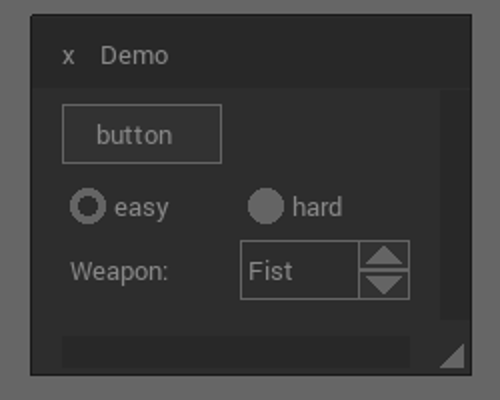
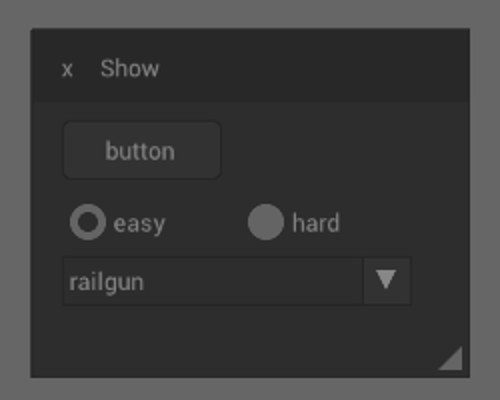
updated screenshots + readme

diff --git a/gui.c b/gui.c
@@ -70,7 +70,6 @@ static const gui_byte gui_utfbyte[GUI_UTF_SIZE+1] = {0x80, 0, 0xC0, 0xE0, 0xF0};
 static const gui_byte gui_utfmask[GUI_UTF_SIZE+1] = {0xC0, 0x80, 0xE0, 0xF0, 0xF8};
 static const long gui_utfmin[GUI_UTF_SIZE+1] = {0, 0, 0x80, 0x800, 0x100000};
 static const long gui_utfmax[GUI_UTF_SIZE+1] = {0x10FFFF, 0x7F, 0x7FF, 0xFFFF, 0x10FFFF};
-static const double GUI_DOUBLE_PRECISION = 0.0000001;
 
 /*
  * ==============================================================
@@ -79,25 +78,6 @@ static const double GUI_DOUBLE_PRECISION = 0.0000001;
  *
  * ===============================================================
  */
-static gui_float
-gui_inv_sqrt(gui_float number)
-{
-    gui_float x2;
-    const gui_float threehalfs = 1.5f;
-    union {gui_uint i; gui_float f;} conv;
-    conv.f = number;
-    x2 = number * 0.5f;
-    conv.i = 0x5f375A84 - (conv.i >> 1);
-    conv.f = conv.f * (threehalfs - (x2 * conv.f * conv.f));
-    return conv.f;
-}
-
-static gui_float
-gui_sqrt(gui_float number)
-{
-    return (1.0f / gui_inv_sqrt(number));
-}
-
 struct gui_rect
 gui_get_null_rect(void)
 {
@@ -1194,7 +1174,6 @@ gui_command_queue_start_child(struct gui_command_queue *queue,
 {
     static const gui_size buf_size = sizeof(struct gui_command_sub_buffer);
     static const gui_size buf_align = GUI_ALIGNOF(struct gui_command_sub_buffer);
-    static const gui_size cmd_align = GUI_ALIGNOF(struct gui_command);
     struct gui_command_sub_buffer_stack *stack;
     struct gui_command_sub_buffer *buf;
     struct gui_command_sub_buffer *end;
@@ -1976,7 +1955,6 @@ gui_widget_button_text_symbol(struct gui_command_buffer *out, struct gui_rect r,
     struct gui_rect tri;
     struct gui_color background;
     struct gui_color color;
-    struct gui_vec2 points[3];
 
     GUI_ASSERT(button);
     GUI_ASSERT(out);
@@ -2177,7 +2155,6 @@ gui_widget_slider(struct gui_command_buffer *out, struct gui_rect slider,
     {
         /* NOTE: this is a shitty hack since I am to stupid for math */
         struct gui_rect fill;
-        gui_float cursor_rounding;
         cursor.w = cursor.h;
         cursor.x = (slider_value <= slider_min) ? cursor.x:
             (slider_value >= slider_max) ? ((bar.x + bar.w) - cursor.h) :
@@ -2187,7 +2164,6 @@ gui_widget_slider(struct gui_command_buffer *out, struct gui_rect slider,
         fill.y = bar.y + 2;
         fill.w = (cursor.x + (cursor.w/2.0f)) - bar.x;
         fill.h = bar.h - 4;
-        cursor_rounding = (s->rounding > 2.0f) ? s->rounding-2 : 0;
 
         /* draw slider with background and circle cursor*/
         gui_command_buffer_push_rect(out, bar, s->rounding, s->border);
@@ -2208,7 +2184,6 @@ gui_widget_progress(struct gui_command_buffer *out, struct gui_rect r,
     struct gui_rect cursor;
     gui_float prog_scale;
     gui_size prog_value;
-    struct gui_vec2 pad;
     struct gui_color col;
 
     GUI_ASSERT(prog);
@@ -4507,15 +4482,12 @@ gui_button_image(struct gui_context *layout, struct gui_image image,
 {
     struct gui_rect bounds;
     struct gui_button_icon button;
-    const struct gui_style *config;
 
     const struct gui_input *i;
     enum gui_widget_state state;
     state = gui_button(&button.base, &bounds, layout);
     if (!state) return gui_false;
     i = (state == GUI_WIDGET_ROM || layout->flags & GUI_WINDOW_ROM) ? 0 : layout->input;
-
-    config = layout->style;
     button.padding = gui_vec2(0,0);
     return gui_widget_button_image(layout->buffer, bounds, image, behavior, &button, i);
 }
@@ -5563,8 +5535,8 @@ gui_menu_begin(struct gui_context *parent, struct gui_context *menu,
         gui_button(&button.base, &header, parent);
         button.base.rounding = 0;
         button.base.border = config->colors[GUI_COLOR_WINDOW];
-        button.base.normal = config->colors[GUI_COLOR_WINDOW];
-        button.base.hover = config->colors[GUI_COLOR_WINDOW];
+        button.base.normal = (is_active) ? config->colors[GUI_COLOR_BUTTON_HOVER]:
+            config->colors[GUI_COLOR_WINDOW];
         button.base.active = config->colors[GUI_COLOR_WINDOW];
         button.normal = config->colors[GUI_COLOR_TEXT];
         button.active = config->colors[GUI_COLOR_TEXT];

diff --git a/Readme.md b/Readme.md
@@ -54,6 +54,7 @@ gui_window_init(&panel, 50, 50, 220, 180,
 enum {EASY, HARD};
 gui_size option = EASY;
 gui_size item = 0;
+gui_state active = 0;
 
 struct gui_input input = {0};
 while (1) {
@@ -66,7 +67,7 @@ while (1) {
     gui_begin(&context, &panel);
     {
         const char *items[] = {"Fist", "Pistol", "Railgun", "BFG"};
-        gui_header(&context, "Demo", GUI_CLOSEABLE, 0, GUI_HEADER_LEFT);
+        gui_header(&context, "Show", GUI_CLOSEABLE, 0, GUI_HEADER_LEFT);
         gui_layout_row_static(&context, 30, 80, 1);
         if (gui_button_text(&context, "button", GUI_BUTTON_DEFAULT)) {
             /* event handling */
@@ -75,7 +76,7 @@ while (1) {
         if (gui_option(&context, "easy", option == EASY)) option = EASY;
         if (gui_option(&context, "hard", option == HARD)) option = HARD;
         gui_label(&context, "Weapon:", GUI_TEXT_LEFT);
-        item = gui_selector(&context, items, LEN(items), item);
+        gui_combo(&context, items, LEN(items), &selected, 20, &combo->active);
     }
     gui_end(&context, &panel);
 
